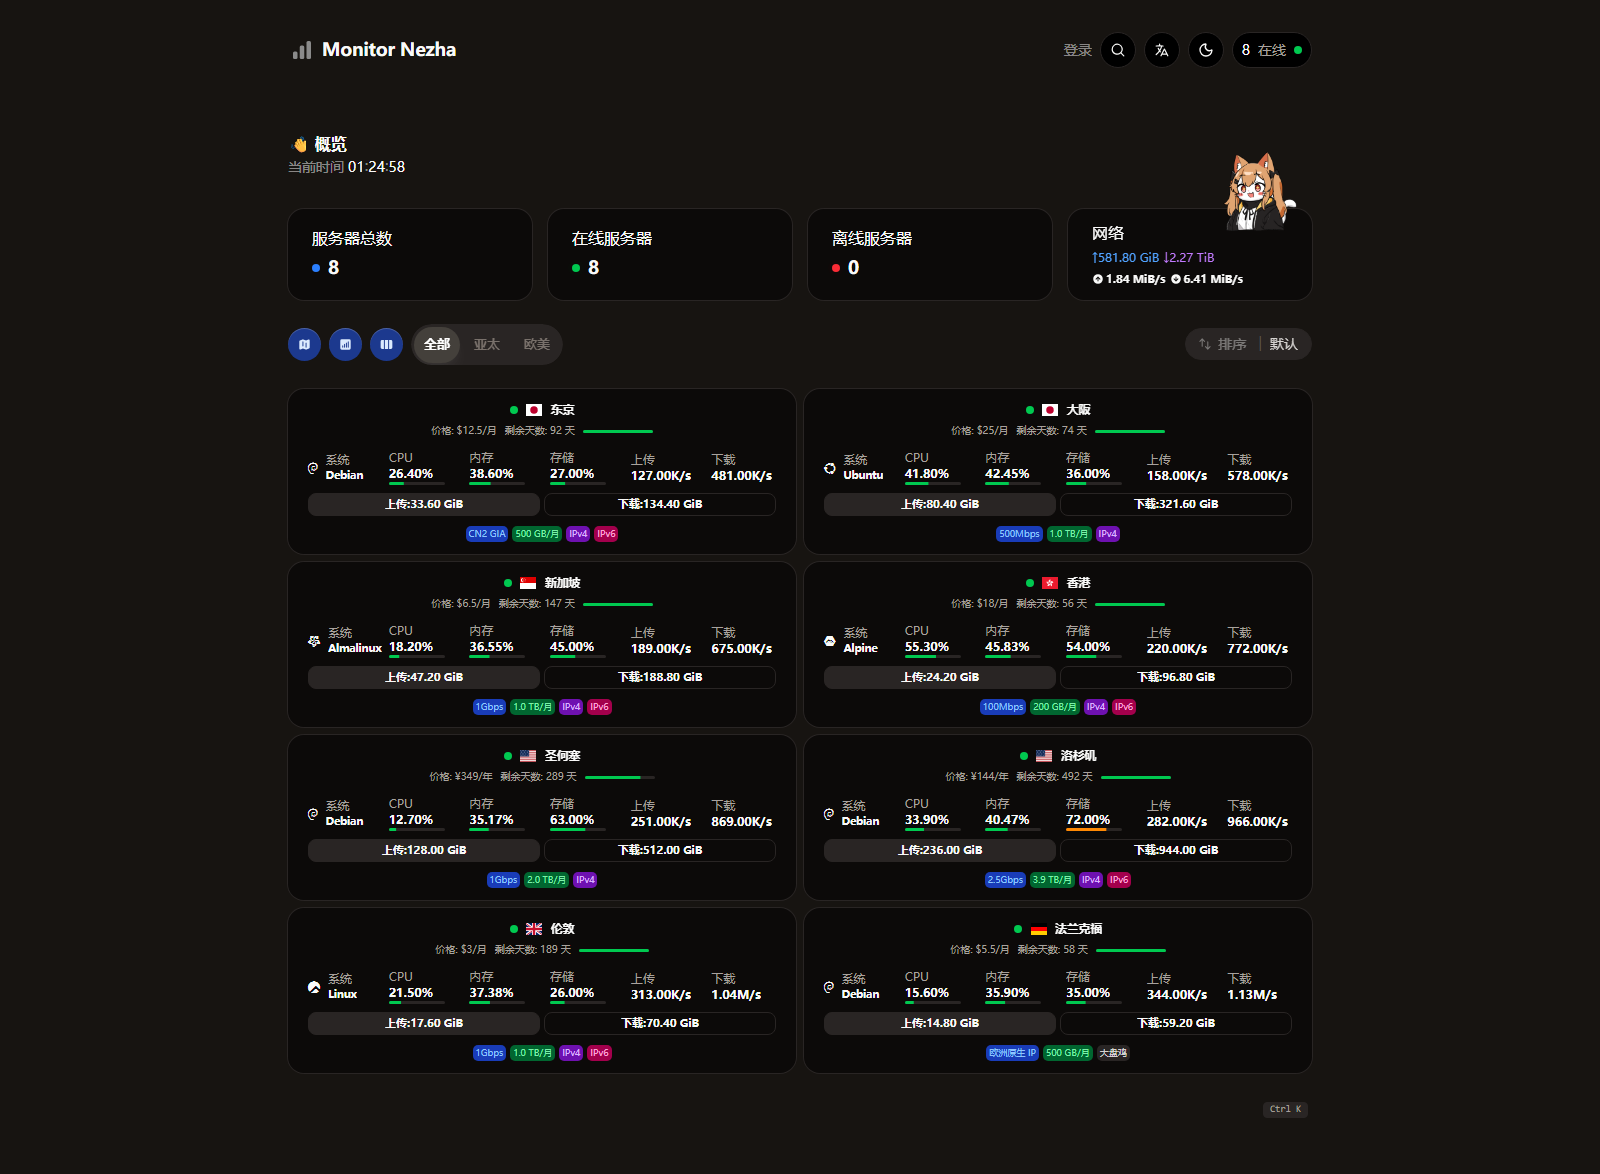
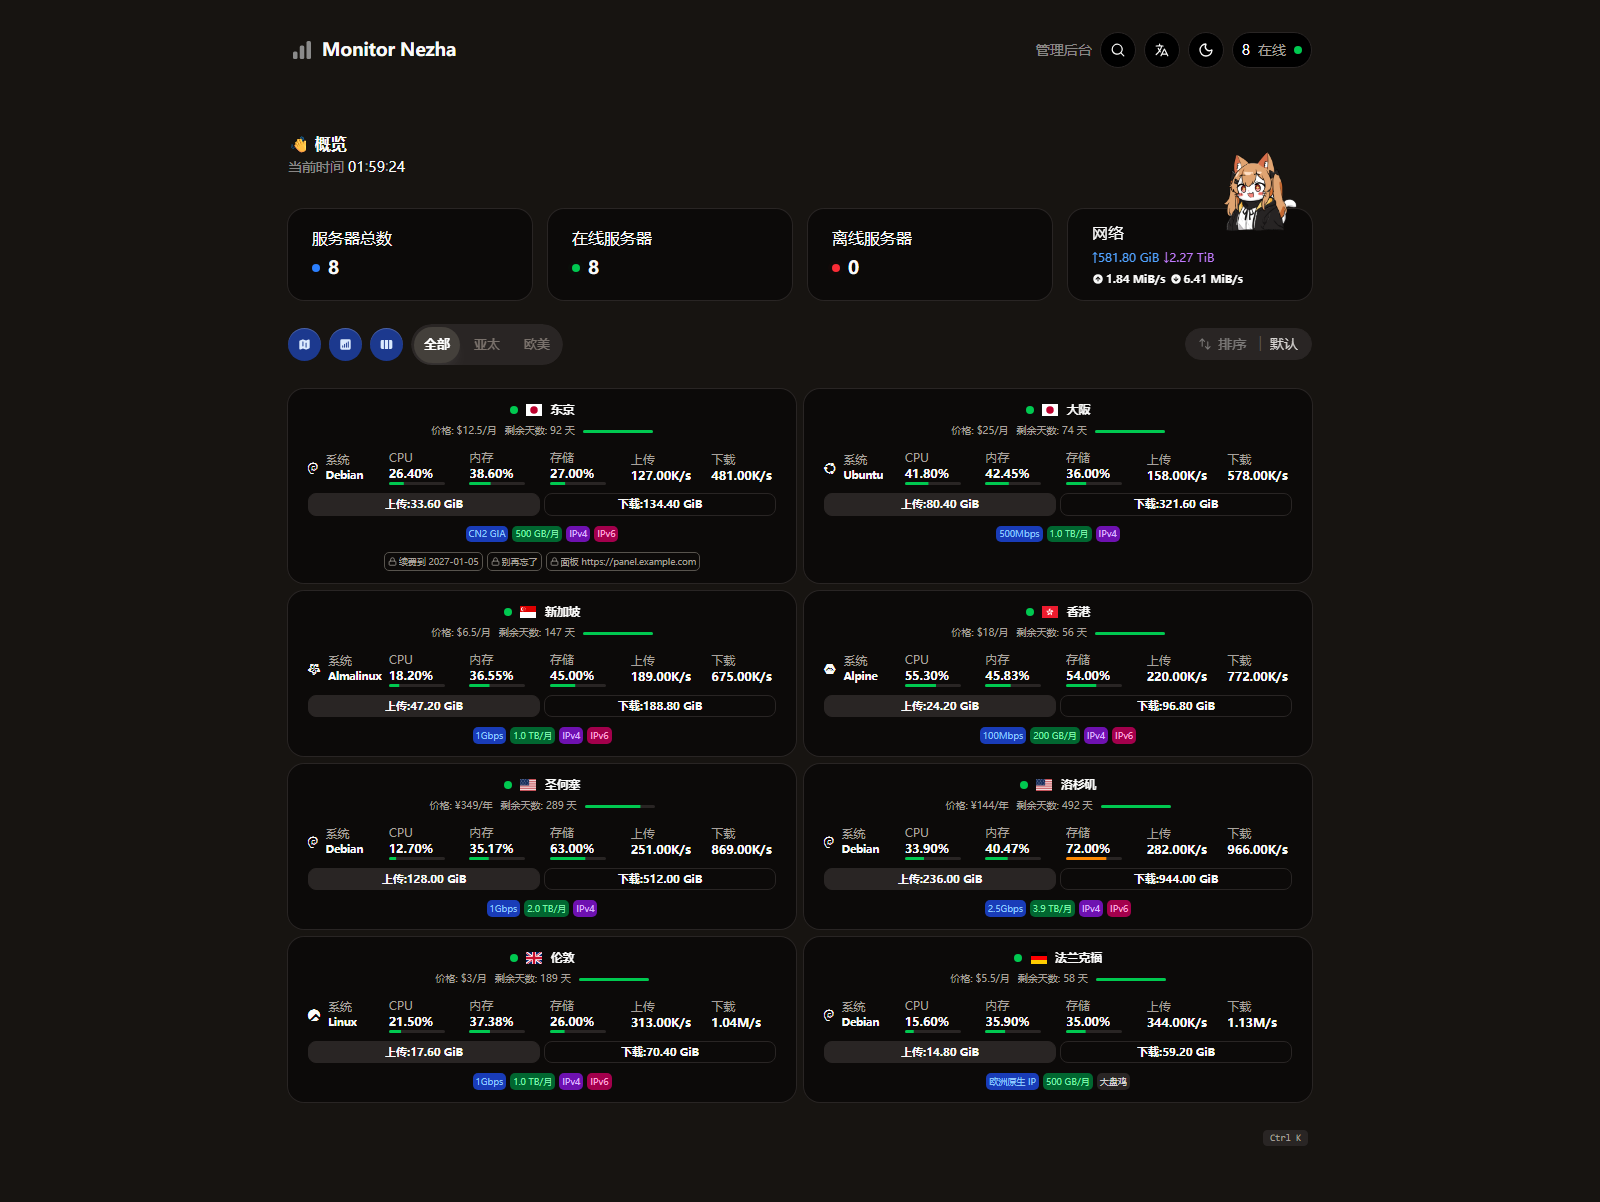
feat(卡片): 私有备注也摊到首页卡片上（带锁，只有管理员看得到）
- 新增 src/components/CardRemarks.tsx：卡片视图与紧凑列表里，各在标签行下补一排私有备注
  （描边 + 锁图标 + 悬停「私有备注 · 仅自己可见」），与详情页同一口径；「备注显示位置」
  关掉卡片侧时（detail / none）整块不渲染，与公开那几枚同一个开关。
- 公开备注照旧走套餐芯片那条路（标签规则没匹配到时兜底），私有那条不进那套芯片 ——
  混成一样就分不出「这是站长写给自己的」。
- 护栏 verify_notes_and_periods 补 6 条卡片侧断言：四档 + 取值不认识的兜底 + 访客视角零占位，
  外加紧凑列表里的对齐口径（靠左 flex-start，与卡片视图的居中相反）。31 → 32 条。
- 预览桩数据改成登录态（/api/me 回 authed 且带 Set-Cookie）：图里既然有私有备注，
  页头就不该还写着「登录」；预览图重拍。
- README 与 theme.json 的说明同步（备注显示位置那条 help、备注一节、预览图加 cache-buster）。
- 版本 1.3.0。

diff --git a/src/components/CardRemarks.tsx b/src/components/CardRemarks.tsx
@@ -1,0 +1,53 @@
+import { Lock } from "lucide-react";
+import { useTranslation } from "react-i18next";
+import { cn } from "@/lib/utils";
+import { getThemeConfig, remarkChips, remarksOnCards } from "@/monitor/config";
+import type { NezhaServer } from "@/types/nezha-api";
+
+/**
+ * 卡片上的**私有备注**（hub 只把它下发给登录的管理员，所以访客这边什么都不渲染）。
+ *
+ * 公开备注在卡片上走的是另一条路：它是「标签规则」没匹配到时的兜底来源，按套餐芯片渲染
+ * （带宽 / IPv4 / IPv6 / 灰标签，见 src/monitor/mapping.ts 的 buildPublicNote）。私有那条
+ * 不进那套芯片 —— 与套餐标签混成一样就分不出「这是站长写给自己的」。这里照详情页的口径
+ * 单独摊一排（描边 + 锁 = 仅自己可见），用的是卡片自己的小芯片尺寸。
+ *
+ * 「备注显示位置」把卡片侧关掉时（`detail` / `none`）整块不渲染（与公开那几枚同一个开关）。
+ */
+export function CardRemarks({
+	serverInfo,
+	/** 卡片视图居中；紧凑列表由调用方传 "start" 靠左（与 PlanInfo 同一套对齐口径）。 */
+	align = "center",
+}: {
+	serverInfo: NezhaServer;
+	align?: "center" | "start";
+}) {
+	const { t } = useTranslation();
+	const own = remarksOnCards(getThemeConfig().remarkPlacement)
+		? remarkChips(serverInfo).filter((chip) => chip.own)
+		: [];
+	if (own.length === 0) return null;
+
+	const label = t("serverDetail.privateRemark");
+
+	return (
+		<section
+			data-card-remarks
+			className={cn(
+				"flex w-full flex-wrap items-center gap-1 mt-0.5",
+				align === "center" ? "justify-center" : "justify-start",
+			)}
+		>
+			{own.map((chip, index) => (
+				<p
+					key={`${index}-${chip.text}`}
+					title={label}
+					className="flex w-fit items-center gap-0.5 rounded-[5px] border border-stone-400/70 px-[3px] py-[1.5px] text-[9px] text-stone-500 dark:border-stone-600 dark:text-stone-400"
+				>
+					<Lock className="size-[9px] shrink-0" aria-hidden />
+					<span className="max-w-[9rem] truncate">{chip.text}</span>
+				</p>
+			))}
+		</section>
+	);
+}

diff --git a/src/components/ServerCardInline.tsx b/src/components/ServerCardInline.tsx
@@ -13,6 +13,7 @@ import { saveMainPageScrollPosition } from "@/lib/navigation";
 import { cn, formatNezhaInfo, parsePublicNote } from "@/lib/utils";
 import type { NezhaServer } from "@/types/nezha-api";
 import BillingInfo from "./billingInfo";
+import { CardRemarks } from "./CardRemarks";
 import PlanInfo from "./PlanInfo";
 import { Card } from "./ui/card";
 import { Separator } from "./ui/separator";
@@ -198,6 +199,7 @@ function ServerCardInline({
 					{parsedData?.planDataMod && (
 						<PlanInfo parsedData={parsedData} align="start" />
 					)}
+					<CardRemarks serverInfo={serverInfo} align="start" />
 				</div>
 			</Card>
 		</section>
@@ -242,6 +244,7 @@ function ServerCardInline({
 			{parsedData?.planDataMod && (
 				<PlanInfo parsedData={parsedData} align="start" />
 			)}
+			<CardRemarks serverInfo={serverInfo} align="start" />
 		</Card>
 	);
 }

diff --git a/src/components/ServerCard.tsx b/src/components/ServerCard.tsx
@@ -13,6 +13,7 @@ import { saveMainPageScrollPosition } from "@/lib/navigation";
 import { cn, formatNezhaInfo, parsePublicNote } from "@/lib/utils";
 import type { NezhaServer } from "@/types/nezha-api";
 import BillingInfo from "./billingInfo";
+import { CardRemarks } from "./CardRemarks";
 import PlanInfo from "./PlanInfo";
 import { Badge } from "./ui/badge";
 import { Card } from "./ui/card";
@@ -215,6 +216,7 @@ function ServerCard({
 					</section>
 				)}
 				{parsedData?.planDataMod && <PlanInfo parsedData={parsedData} />}
+				<CardRemarks serverInfo={serverInfo} />
 			</div>
 		</Card>
 	) : (
@@ -277,6 +279,7 @@ function ServerCard({
 				{parsedData?.billingDataMod && <BillingInfo parsedData={parsedData} />}
 			</div>
 			{parsedData?.planDataMod && <PlanInfo parsedData={parsedData} />}
+			<CardRemarks serverInfo={serverInfo} />
 		</Card>
 	);
 }

diff --git a/README.md b/README.md
@@ -1,6 +1,6 @@
 # Monitor Nezha
 
-![Monitor Nezha 主题首页预览](preview.png?v=2)
+![Monitor Nezha 主题首页预览](preview.png?v=3)
 
 把 [hamster1963/nezha-dash-v2](https://github.com/hamster1963/nezha-dash-v2)（哪吒监控的官方前端）移植到
 [极简探针 Monitor](https://github.com/monitor-probe/monitor) 的主题：界面与上游一致，数据全部来自探针的公开接口 ——
@@ -16,7 +16,7 @@
 - **延迟监控**：hub 的 Ping 探测线路按天聚合成 30 天在线率与平均延迟，失败的探测按丢包计。
 - **周期流量**：每台节点的流量配额、已用百分比与重置日期。
 - **节点详情**：硬件 / 系统 / 存储信息，外加 CPU、内存、磁盘、上下行四条历史曲线；时间范围按 hub 的保留天数给（保留 30 天就是 1 / 7 / 30 天，留 365 天才多出 90 天与 365 天）。
-- **节点备注**：卡片底部那排标签与详情页的备注小卡片 —— 公开备注访客可见，私有备注只有登录的管理员看得到（多一枚锁图标）。
+- **节点备注**：卡片底部那排标签与详情页的备注小卡片 —— 公开备注访客可见；私有备注只有登录的管理员看得到，卡片与详情页都会多出一枚锁图标。
 - **主题外观**：亮 / 暗 / 跟随系统；站点 Logo、导航链接、桌面与移动端背景图、首页插画、自定义代码都在后台改。
 - **多语言**：界面语言 14 种（部分语种由上游社区翻译，未翻译的条目回落到英语），站点可设默认语言，也可以跟随访客。
 
@@ -34,10 +34,11 @@
   **私有备注**（面板里的 placeholder 是「仅管理员可见」）只下发给登录的管理员。
 - **卡片底部那排标签**：先看主题设置里的「标签规则」，规则没匹配到的机器改用**公开备注** —— 逗号分隔＝多枚
   （半角 `,` 与全角 `，` 都认），第一枚进带宽格、其余进灰标签；两个来源都没有的机器，那一排整个不渲染。
+  **私有备注不进那套芯片**：它在卡片上单独一排（描边 + 锁图标），只有登录的管理员看得到。
 - **整页详情**摊的是**私有 + 公有合并成的一串小卡片**：私有在前（描边 + 锁图标）、公有在后，都按逗号拆，
   私有那条先按换行分段。没写备注时那一块一个像素都不占。
 - 摊在哪儿由「**备注显示位置**」决定：卡片与详情页都显示（默认）/ 只在卡片 / 只在整页详情 / 都不显示。
-  卡片侧关掉时只关「备注来的」那几个芯片，流量配额与账单不属于备注，照旧显示。
+  卡片侧关掉时只关「备注来的」那几个芯片（含私有那排），流量配额与账单不属于备注，照旧显示。
 
 </details>
 
